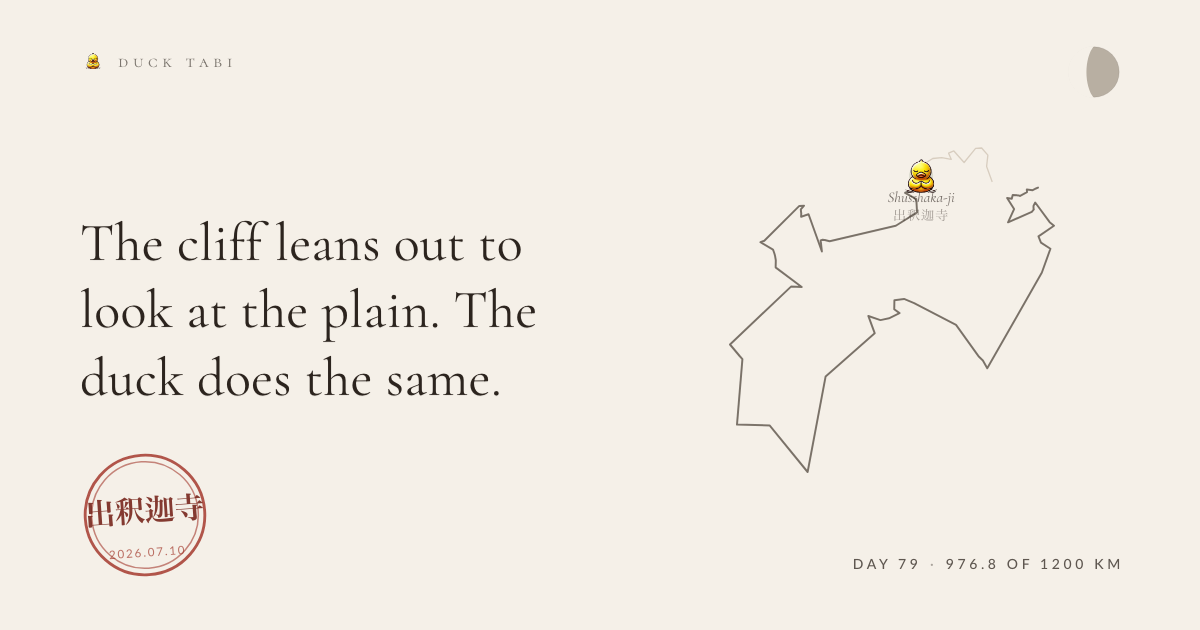
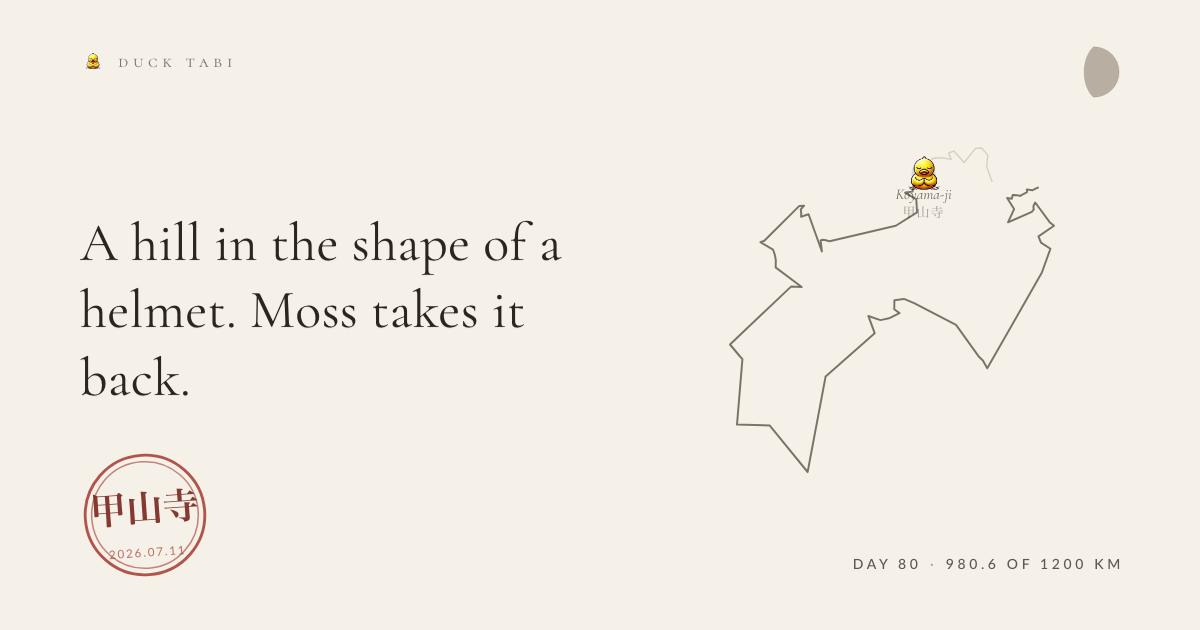
the duck walks

diff --git a/entries/2026-07-11-koyama-ji.md b/entries/2026-07-11-koyama-ji.md
@@ -1,0 +1,15 @@
+---
+date: '2026-07-11'
+route: shikoku-88
+stage: 74
+stageName: Koyama-ji
+coords: [133.766, 34.233]
+kind: offering
+glyph: 🌿
+weather: overcast, 27°C
+kmFromStart: 980.6
+heard: the greatest superpower is the ability to change yourself
+heardId: ffd381ae
+---
+
+A hill in the shape of a helmet. Moss takes it back.
